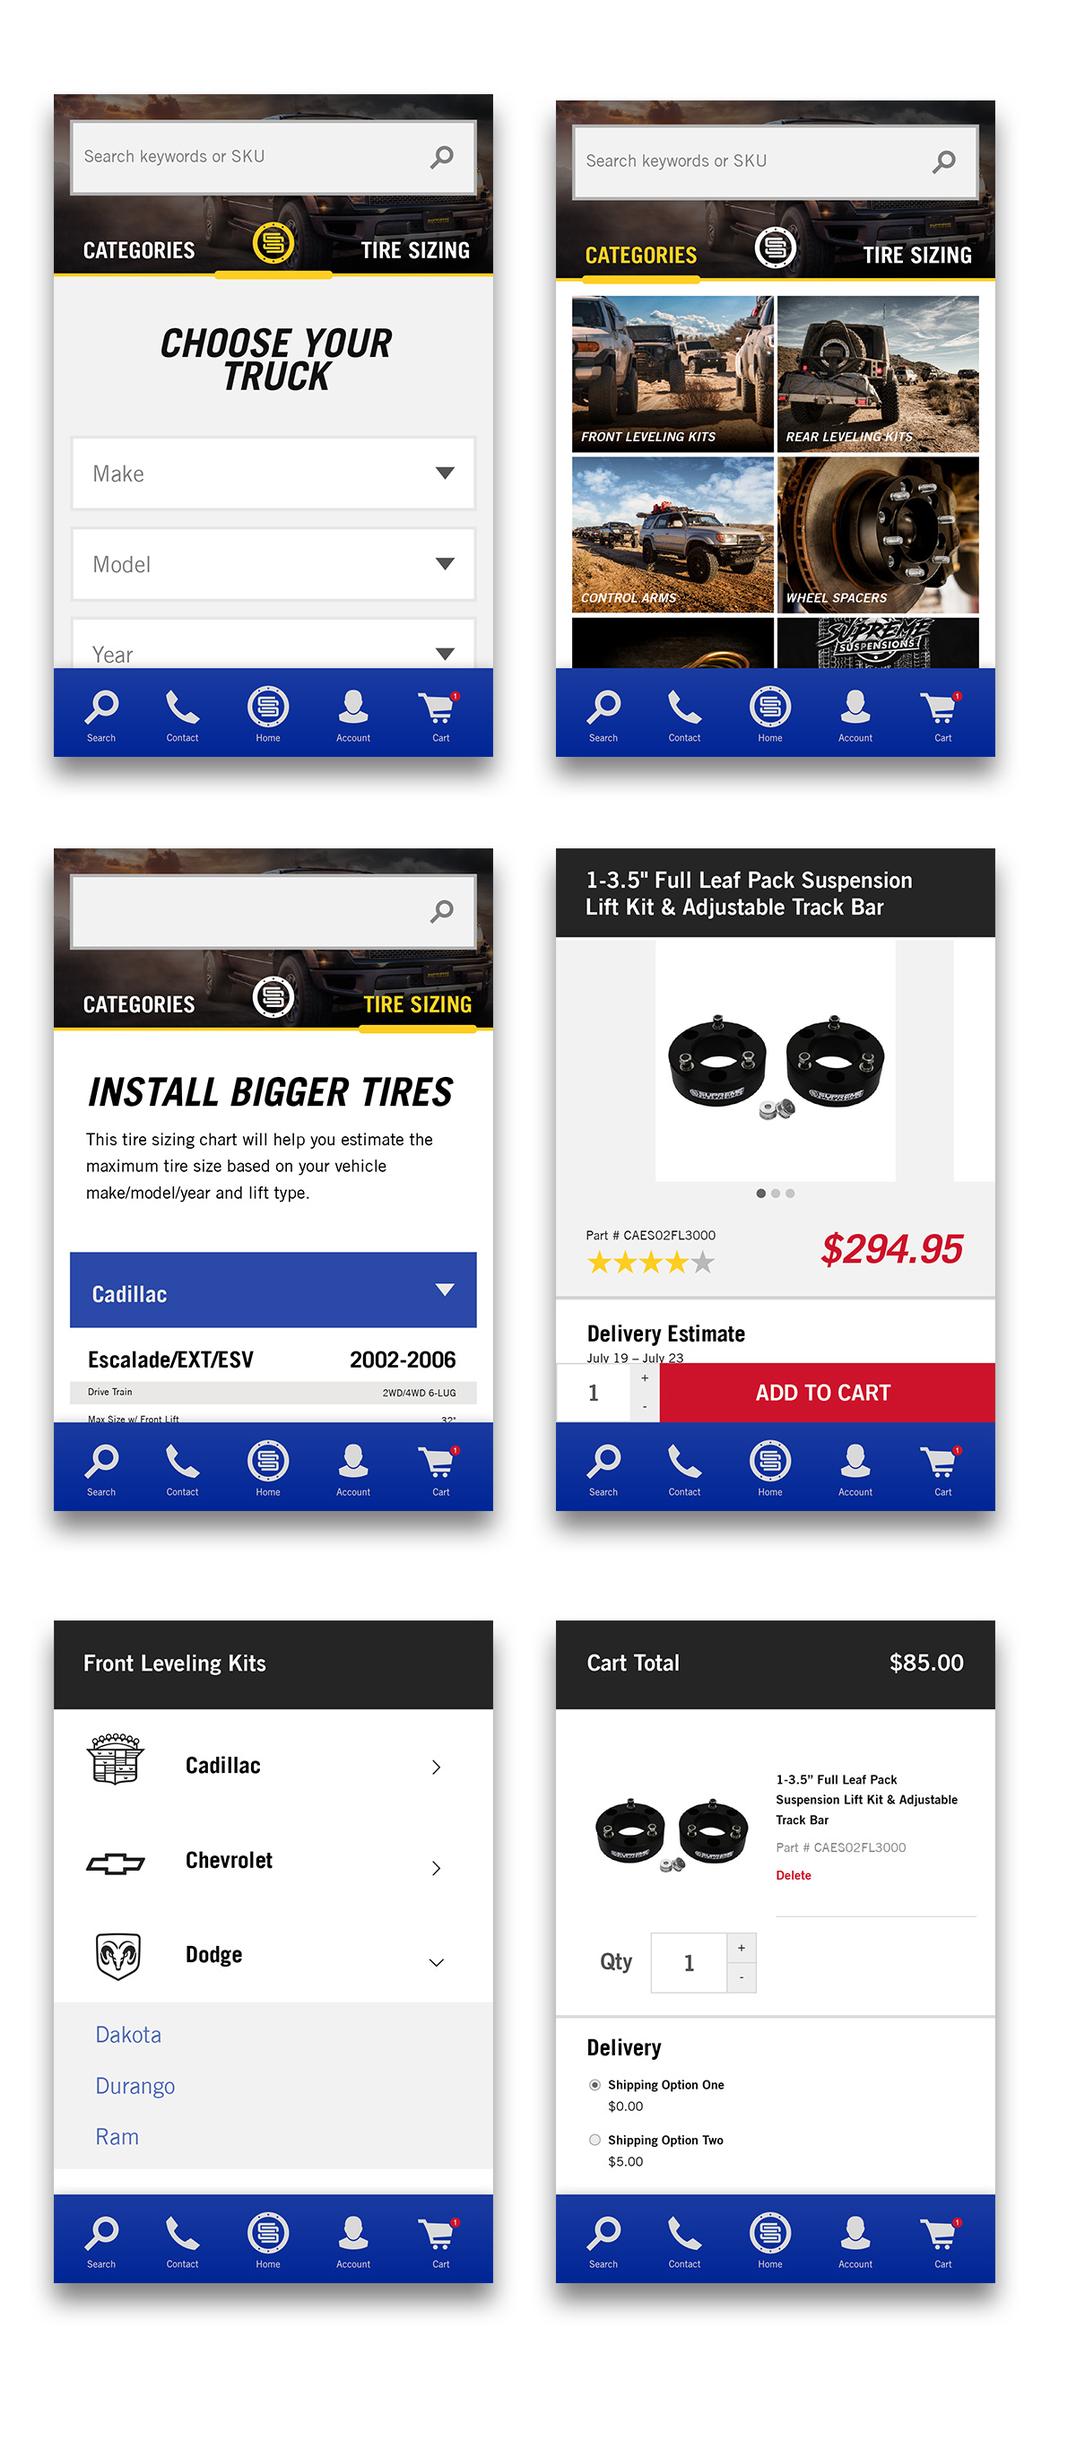
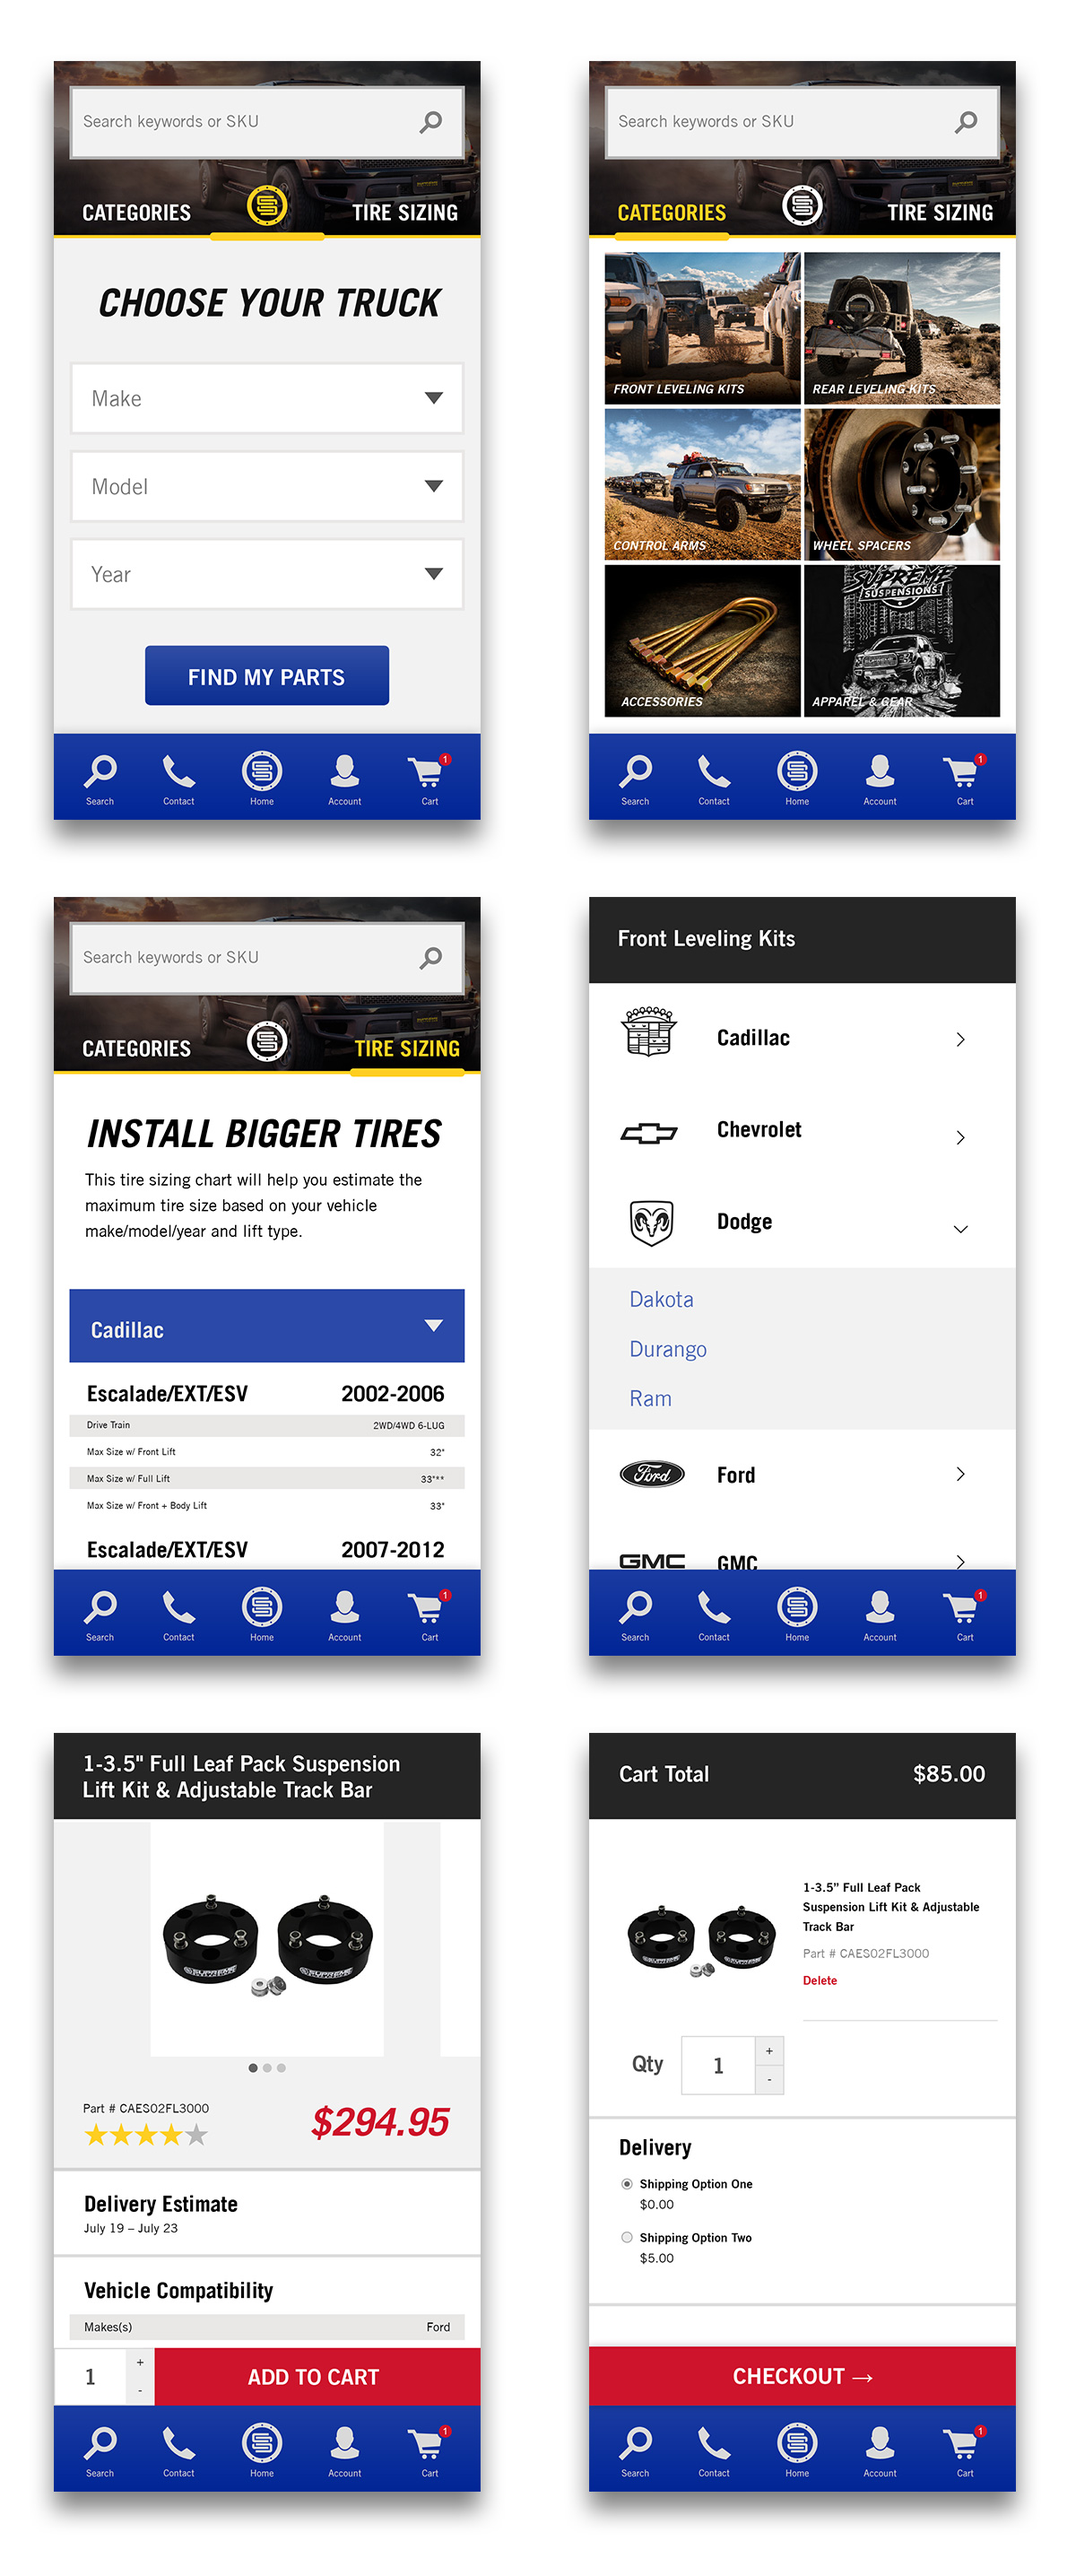
updated supreme & bum

diff --git a/project/web-design/supreme-suspensions.md b/project/web-design/supreme-suspensions.md
@@ -9,21 +9,27 @@ image: supreme-suspensions_th.jpg
 priority: 1
 
 images: 
+  - supreme-suspensions_7-mechanic-on-website.jpg
   - supreme-suspensions_1-type-color.png
   - supreme-suspensions_2-logo-evolution.png
   - supreme-suspensions_3-UI-sketch.jpg
   - supreme-suspensions_4-UI-sketch.jpg
   - supreme-suspensions_5-Sketch-UI.jpg
   - supreme-suspensions_6-mobile-website.jpg
+  - supreme-suspensions_10-responsive.jpg
+  - supreme-suspensions_9-style-guide.jpg
+  - supreme-suspensions_8.1-photo-composite.jpg
+  - supreme-suspensions_8.2-photo-composite.jpg
+  - supreme-suspensions_8.3-photo-composite.jpg
 images-alt:
   - 'Typography & Color.'
   - 'Evolution of the logo.'
 images-class:
 ---
 
-The flagship brand of a lift kit and accessories manufacturer, Supreme Suspensions wanted to earn more revenue as their WordPress shop was beginning to show its age. We set out to design a mobile-first solution for these four problems:
+The flagship brand of a lift kit and accessories manufacturer, Supreme Suspensions™ wanted to earn more revenue as their WordPress shop was beginning to show its age. Brand confusion was compounded when the multi-million dollar brand had no established style guide and a team of designers adhering to different styles. We set out to design solutions for these four problems:
 
-1. Reduce confusion with a unified brand look.
-2. Optimize website for conversions.
-3. Decrease page load times to 0:02 seconds.
+1. Create style guide to align team with the goal of increasing ad and marketing effectiveness.
+2. Redesign a mobile-first website with a 2% conversion rate goal.
+3. Decrease page load times to > 0:02 seconds.
 4. Create a logical navigation system.

diff --git a/project/illustration/burn-ur-money.md b/project/illustration/burn-ur-money.md
@@ -7,6 +7,16 @@ skills: Infographic Illustration
 title: 8 Ways to Own the Zombie Apocalypse Infographic
 image: zombies_th.jpg
 priority: 100
+
+images: 
+  - zombies_1-zoom.jpg
+  - zombies_2-zoom.jpg
+  - zombies_3-full-infographic.jpg
+images-alt:
+  - 'Thriller Detail'
+  - 'Space Trek Detail'
+  - 'Full Infographic'
+images-class:
 ---
 
 To ride a wave of media buzz for the season six premiere of The Walking Dead, Australian comedy/affiliate marketing website Burn Ur Money commisioned a zombie themed infographic. Teaming up with illustrator <a href="https://thatshowiparty.blogspot.com/" target="_blank">Stephen Yan</a>, we created an infographic that reflected the over-the-top pop culture comedy of the website.
